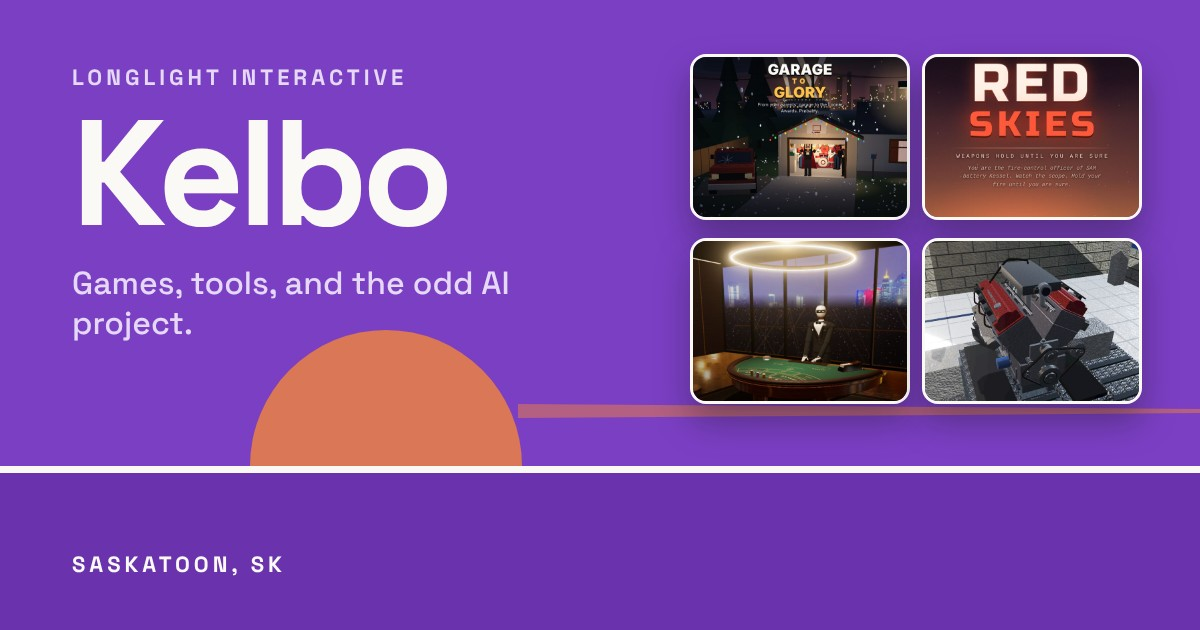
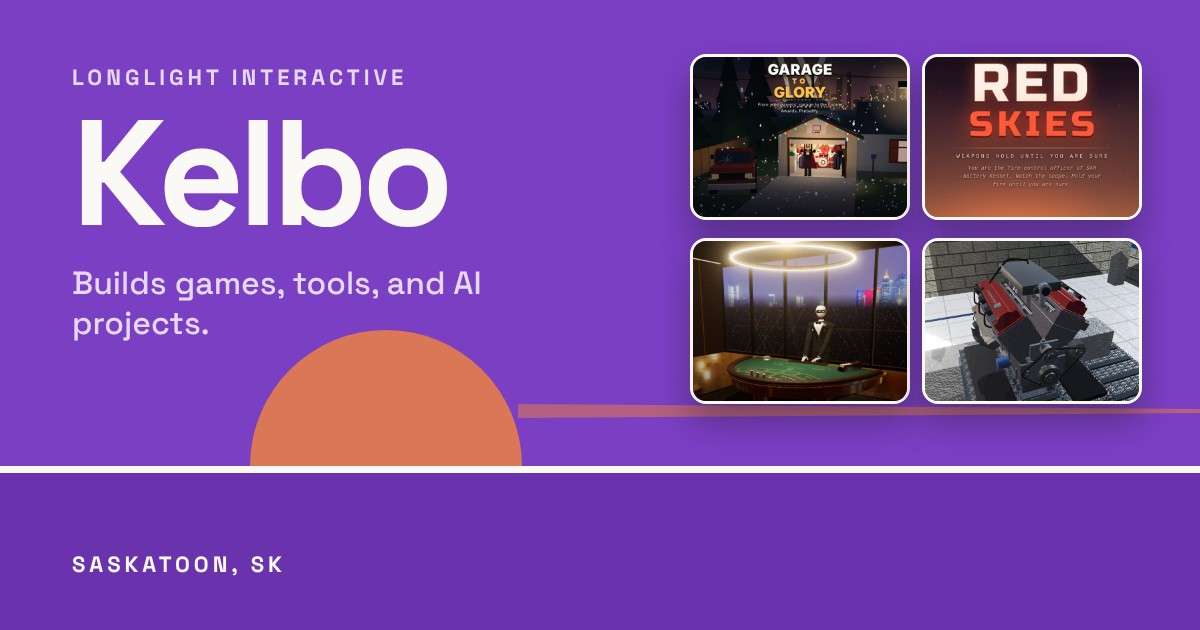
Restore the hero wording from before the redesign (#24)
Keep the Longlight design but bring back Kelbo's own hero text: the
"Player 1 · Saskatoon, SK" line, "Kelbo" as the big heading, and the
"Part-time day trader..." description. The link preview image's line
now matches ("Builds games, tools, and AI projects.").

Claude-Session: https://claude.ai/code/session_016QaTkMKy8nw5ihBrZfYzcJ

Changed region(s): [[0.0617, 0.4222, 0.4317, 0.4825], [0.1542, 0.5127, 0.185, 0.5429]]

diff --git a/index.html b/index.html
@@ -77,11 +77,11 @@
          sunset. Without JavaScript the sun just sits mid-sky. -->
     <section class="hero" aria-labelledby="hero-name">
       <div class="wrap hero__top">
-        <p class="eyebrow">Kelbo &middot; Longlight Interactive &middot; Saskatoon, SK</p>
-        <h1 id="hero-name" class="hero__name">Games, tools, and the odd <em>AI project.</em></h1>
+        <p class="eyebrow">Player 1 &middot; Saskatoon, SK</p>
+        <h1 id="hero-name" class="hero__name">Kelbo</h1>
         <p class="hero__line">
-          Former football player and part-time day trader. These days I
-          mostly build things you can play on your phone.
+          Part-time day trader. These days I mostly build games, tools, and
+          AI projects.
         </p>
         <div class="hero__actions">
           <a class="button button--start" href="#games-heading">Play a game</a>

diff --git a/style.css b/style.css
@@ -415,21 +415,6 @@ img {
   margin-bottom: 1rem;
 }
 
-/* "AI project." gets a clay underline like a horizon. Clay text on the
-   purple sky is too faint to read easily, so the words only turn clay
-   in the dark theme, where they stand out against slate. */
-.hero__name em {
-  font-style: normal;
-  text-decoration: underline;
-  text-decoration-color: var(--accent);
-  text-decoration-thickness: 0.08em;
-  text-underline-offset: 0.12em;
-}
-
-:root[data-theme="dark"] .hero__name em {
-  color: var(--accent);
-}
-
 .hero__line {
   max-width: 34rem;
   font-size: 1.1rem;

diff --git a/README.md b/README.md
@@ -42,7 +42,7 @@ you save on the `main` branch goes live within a minute or two.
 All the words on the home page are in `index.html`. Look for these
 comments to find each part:
 
-- `<!-- 1. Hero -->`: the small line above the heading, the big heading, the
+- `<!-- 1. Hero -->`: your name, the small "Player 1" line above it, the
   description, the two buttons, and the live sun
 - `<!-- 2. Games -->`: the "Pick a game" cards (filled in from `projects.json`)
 - `<!-- 3. Modes -->`: the Games / Trading / AI tiles
